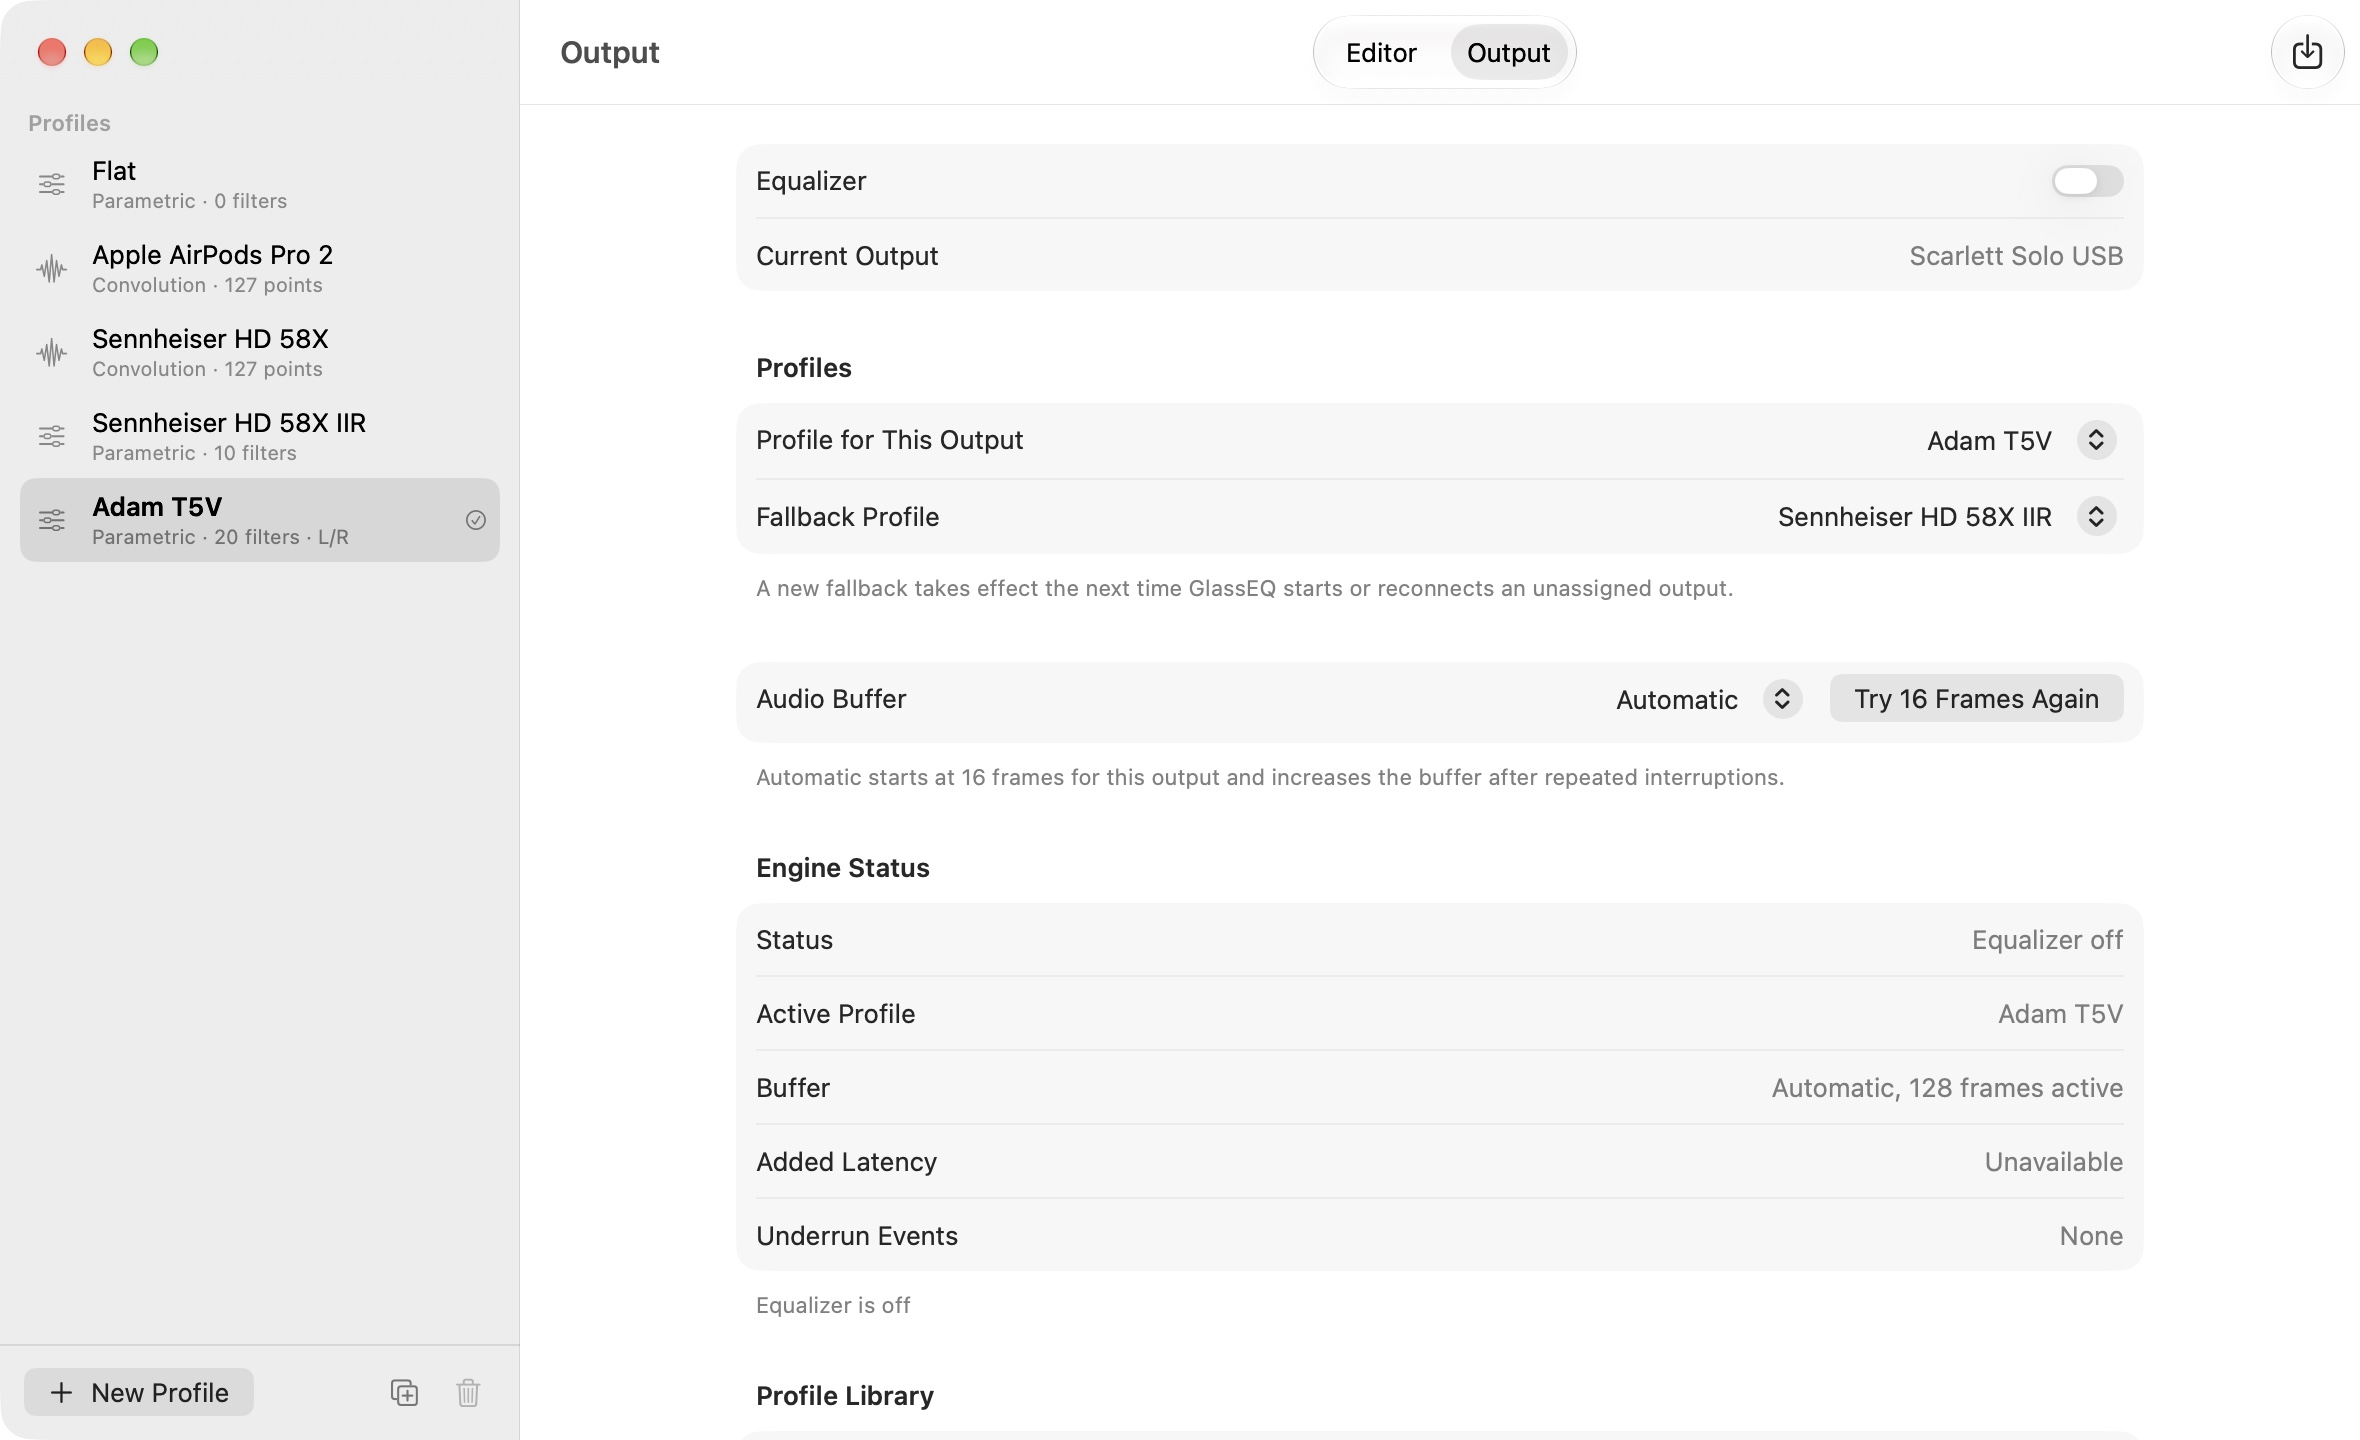
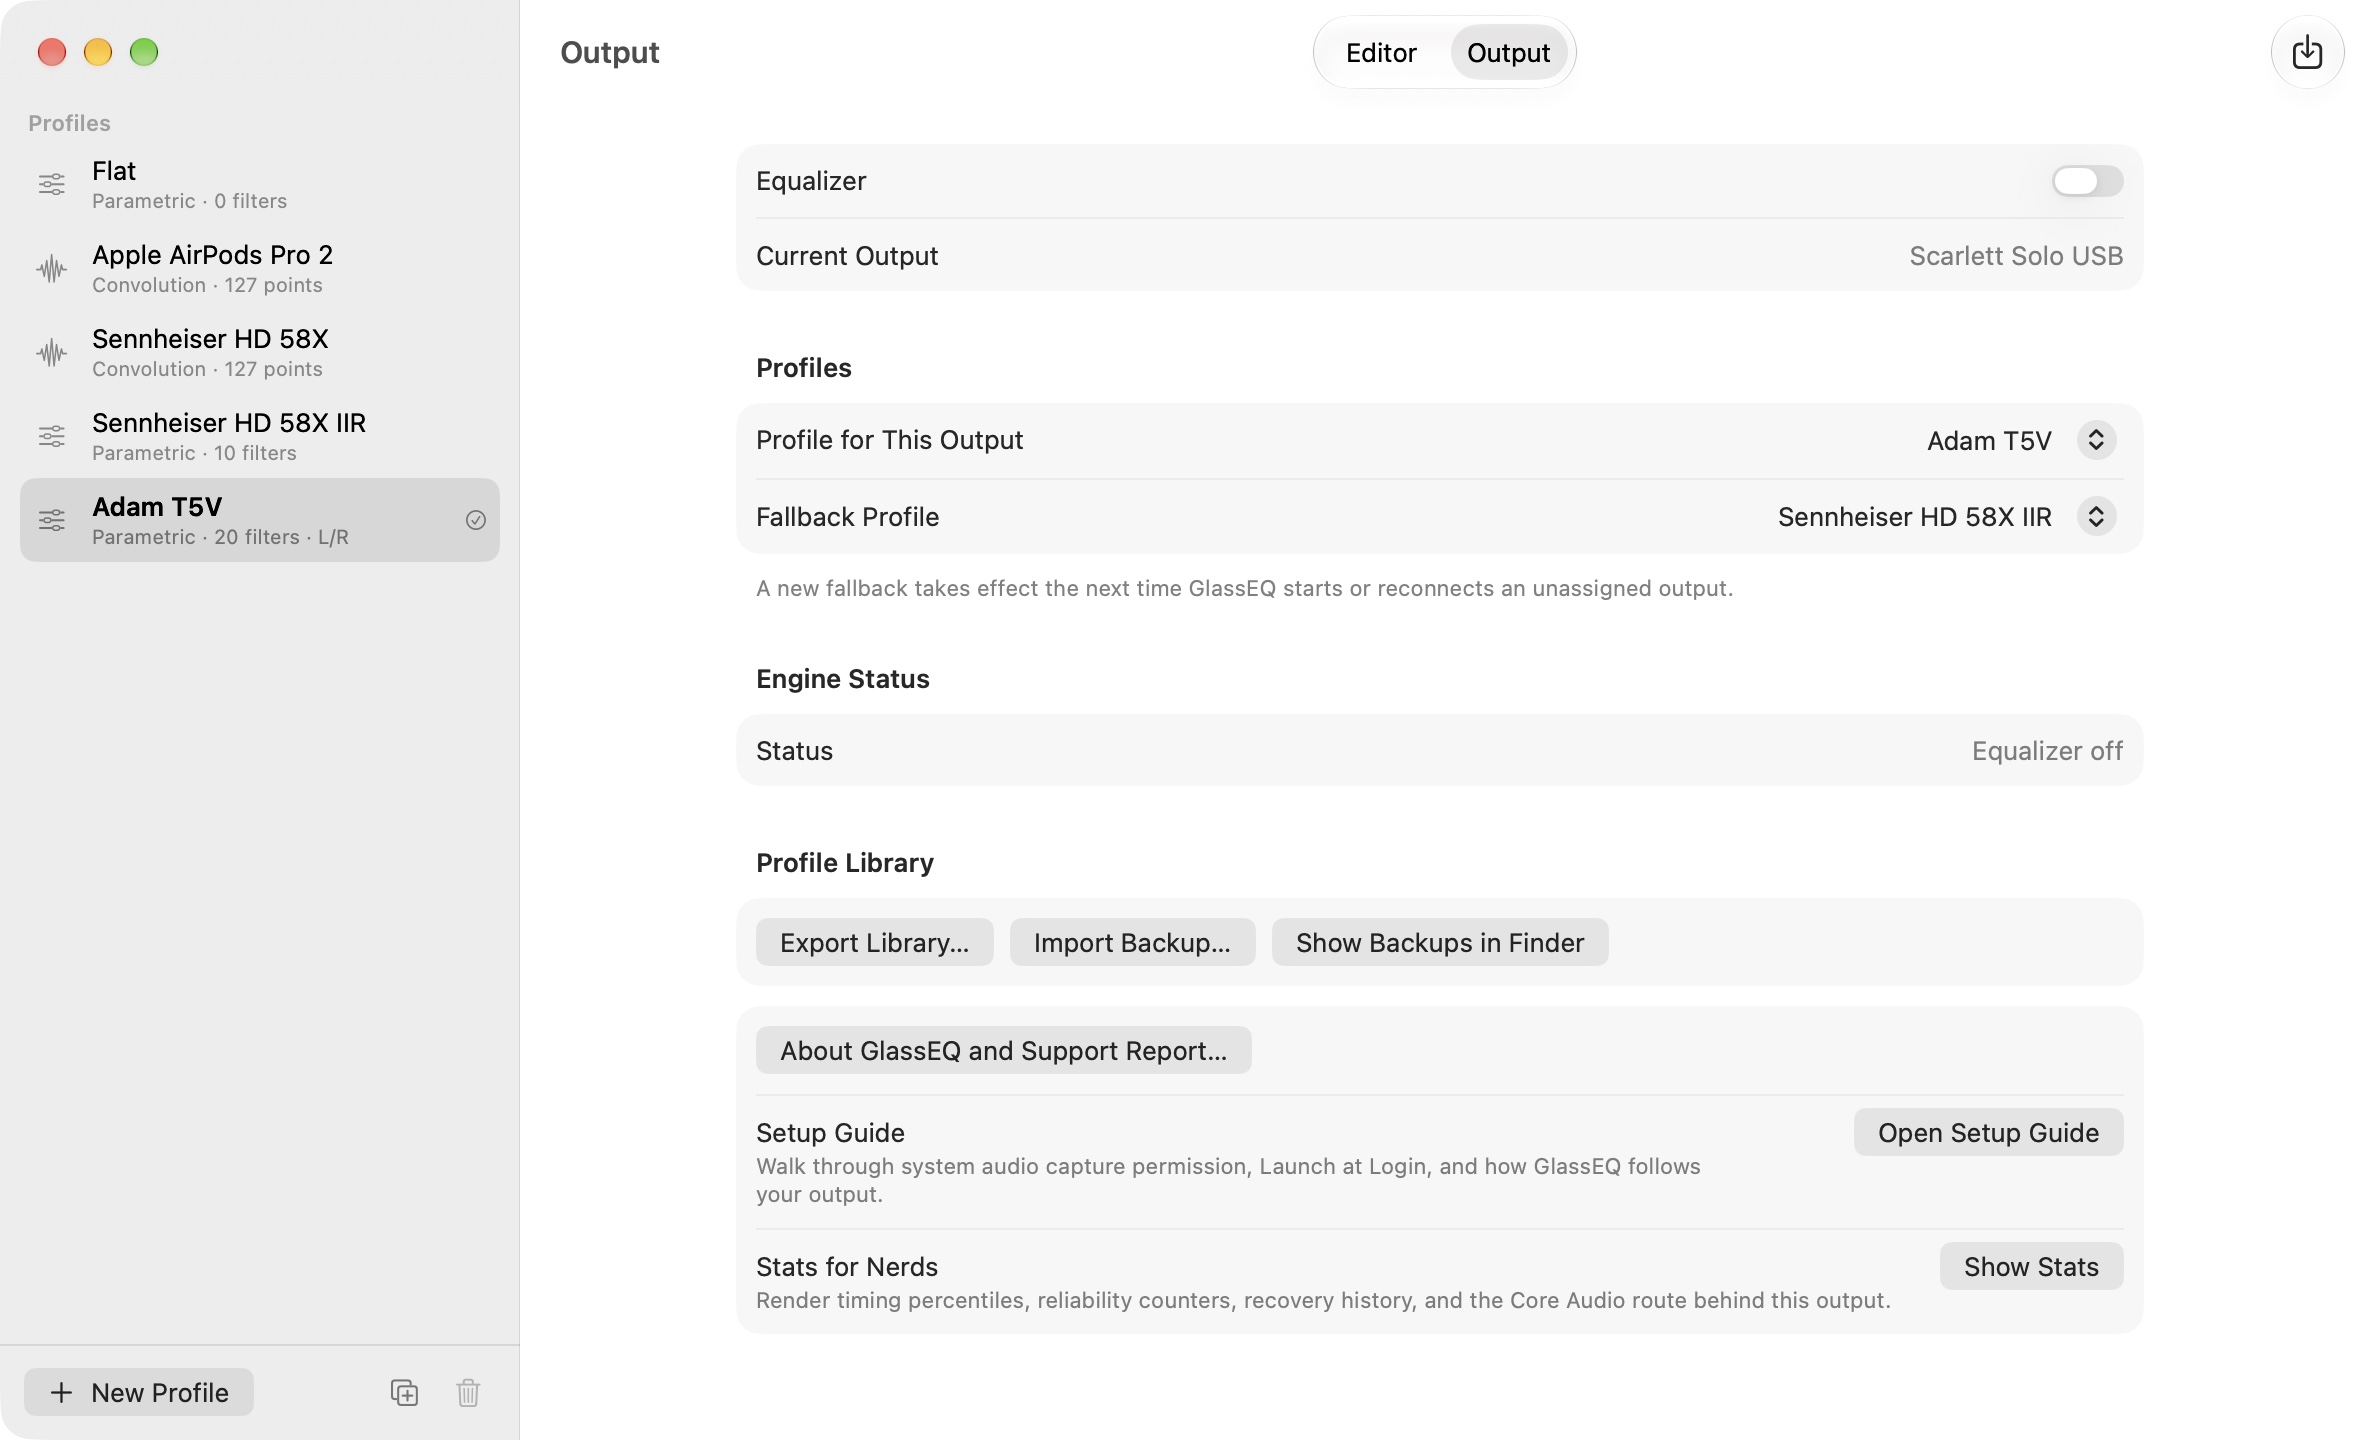
fix(settings): restore slider travel and keep playback recovery in reach

diff --git a/Sources/GlassEQSettingsUI/OutputTab.swift b/Sources/GlassEQSettingsUI/OutputTab.swift
@@ -30,7 +30,7 @@ struct OutputTab: View {
         Form {
             Section {
                 if snapshot.offersPlaybackHandback || snapshot.equalizer.needsRecoveryAction {
-                    recoveryActions
+                    PlaybackRecoveryActions(controller: controller)
                 } else if snapshot.equalizer != .unavailable {
                     Toggle(
                         localized("Equalizer"),
@@ -77,93 +77,100 @@ struct OutputTab: View {
             }
             .disabled(controller.isEditingLocked)
 
-            Section {
-                LabeledContent(localized("Audio Buffer")) {
-                    Picker(localized("Audio Buffer"), selection: $controller.aggregateBufferMode) {
-                        Text(localized("Automatic")).tag(SettingsAggregateBufferMode.automatic)
-                        Text(localized("16 frames")).tag(SettingsAggregateBufferMode.frames16)
-                        Text(localized("32 frames")).tag(SettingsAggregateBufferMode.frames32)
-                        Text(localized("64 frames")).tag(SettingsAggregateBufferMode.frames64)
-                        Text(localized("128 frames")).tag(SettingsAggregateBufferMode.frames128)
+            if snapshot.isRunning {
+                Section {
+                    LabeledContent(localized("Audio Buffer")) {
+                        Picker(localized("Audio Buffer"), selection: $controller.aggregateBufferMode) {
+                            Text(localized("Automatic")).tag(SettingsAggregateBufferMode.automatic)
+                            Text(localized("16 frames")).tag(SettingsAggregateBufferMode.frames16)
+                            Text(localized("32 frames")).tag(SettingsAggregateBufferMode.frames32)
+                            Text(localized("64 frames")).tag(SettingsAggregateBufferMode.frames64)
+                            Text(localized("128 frames")).tag(SettingsAggregateBufferMode.frames128)
+                        }
+                        .labelsHidden()
+
+                        if snapshot.aggregateBuffer.mode == .automatic,
+                            snapshot.aggregateBuffer.automaticFrameSize > snapshot.aggregateBuffer.defaultFrameSize
+                        {
+                            Button(localized("Try \(snapshot.aggregateBuffer.defaultFrameSize) Frames Again")) {
+                                controller.retryAutomaticAggregateBuffer()
+                            }
+                        } else if let fixedFrameSize = snapshot.aggregateBuffer.mode.fixedFrameSize,
+                            snapshot.currentOutputBufferFrameSize > fixedFrameSize
+                        {
+                            Button(localized("Try \(fixedFrameSize) Frames Again")) {
+                                controller.setAggregateBufferMode(snapshot.aggregateBuffer.mode)
+                            }
+                        }
                     }
-                    .labelsHidden()
+
                     .disabled(!snapshot.aggregateBuffer.isAvailable)
 
-                    if snapshot.aggregateBuffer.mode == .automatic,
-                        snapshot.aggregateBuffer.automaticFrameSize > snapshot.aggregateBuffer.defaultFrameSize
-                    {
-                        Button(localized("Try \(snapshot.aggregateBuffer.defaultFrameSize) Frames Again")) {
-                            controller.retryAutomaticAggregateBuffer()
-                        }
-                    } else if let fixedFrameSize = snapshot.aggregateBuffer.mode.fixedFrameSize,
-                        snapshot.currentOutputBufferFrameSize > fixedFrameSize
-                    {
-                        Button(localized("Try \(fixedFrameSize) Frames Again")) {
-                            controller.setAggregateBufferMode(snapshot.aggregateBuffer.mode)
-                        }
-                    }
-                }
-
-                if shouldShowMacOS27BluetoothBufferNotice(
-                    route: diagnostics.route,
-                    operatingSystemMajorVersion: ProcessInfo.processInfo.operatingSystemVersion.majorVersion
-                ) {
-                    VStack(alignment: .leading, spacing: 6) {
-                        Label(localized("macOS 27 Bluetooth audio"), systemImage: "info.circle")
-                            .fontWeight(.semibold)
-                        Text(
-                            localized(
-                                "macOS 27 may use a 256-frame buffer for Bluetooth audio even when a smaller size is selected. Retrying may not lower it."
-                            )
-                        )
-                        .foregroundStyle(.secondary)
-                    }
-                    .font(.caption)
-                    .fixedSize(horizontal: false, vertical: true)
-                    .accessibilityElement(children: .combine)
-                }
-
-                if snapshot.aggregateBuffer.defaultFrameSize > 16 {
-                    DisclosureGroup {
-                        VStack(alignment: .leading, spacing: 8) {
+                    if shouldShowMacOS27BluetoothBufferNotice(
+                        route: diagnostics.route,
+                        operatingSystemMajorVersion: ProcessInfo.processInfo.operatingSystemVersion.majorVersion
+                    ) {
+                        VStack(alignment: .leading, spacing: 6) {
+                            Label(localized("macOS 27 Bluetooth audio"), systemImage: "info.circle")
+                                .fontWeight(.semibold)
                             Text(
                                 localized(
-                                    "Changing Bluetooth volume from your Mac can briefly delay audio processing. A larger buffer helps absorb those delays."
-                                ))
-                            Text(localized("On AirPods Pro, adjusting volume using the stems avoided the issue."))
+                                    "macOS 27 may use a 256-frame buffer for Bluetooth audio even when a smaller size is selected. Retrying may not lower it."
+                                )
+                            )
+                            .foregroundStyle(.secondary)
                         }
                         .font(.caption)
-                        .foregroundStyle(.secondary)
                         .fixedSize(horizontal: false, vertical: true)
-                    } label: {
-                        Text(localized("Why a larger buffer?"))
+                        .accessibilityElement(children: .combine)
                     }
-                }
-            } footer: {
-                if snapshot.isRunning || snapshot.aggregateBuffer.isAvailable {
-                    Text(
-                        outputBufferExplanation(
-                            aggregateBuffer: snapshot.aggregateBuffer,
-                            currentFrameSize: snapshot.currentOutputBufferFrameSize
-                        ))
+
+                    if snapshot.aggregateBuffer.defaultFrameSize > 16 {
+                        DisclosureGroup {
+                            VStack(alignment: .leading, spacing: 8) {
+                                Text(
+                                    localized(
+                                        "Changing Bluetooth volume from your Mac can briefly delay audio processing. A larger buffer helps absorb those delays."
+                                    ))
+                                Text(localized("On AirPods Pro, adjusting volume using the stems avoided the issue."))
+                            }
+                            .font(.caption)
+                            .foregroundStyle(.secondary)
+                            .fixedSize(horizontal: false, vertical: true)
+                        } label: {
+                            Text(localized("Why a larger buffer?"))
+                        }
+                    }
+                } footer: {
+                    if snapshot.isRunning || snapshot.aggregateBuffer.isAvailable {
+                        Text(
+                            outputBufferExplanation(
+                                aggregateBuffer: snapshot.aggregateBuffer,
+                                currentFrameSize: snapshot.currentOutputBufferFrameSize
+                            ))
+                    }
                 }
             }
 
             Section {
                 LabeledContent(localized("Status"), value: statusSummary)
-                LabeledContent(localized("Active Profile"), value: snapshot.activeProfileName)
-                LabeledContent(localized("Buffer"), value: bufferSummary)
-                LabeledContent(localized("Added Latency"), value: outputAddedLatencyLabel(snapshot))
-                LabeledContent(
-                    localized("Underrun Events"),
-                    value: snapshot.metrics.playbackUnderrunEvents == 0
-                        ? localized("None")
-                        : localizedInteger(snapshot.metrics.playbackUnderrunEvents)
-                )
+                if snapshot.isRunning {
+                    LabeledContent(localized("Active Profile"), value: snapshot.activeProfileName)
+                    LabeledContent(localized("Buffer"), value: bufferSummary)
+                    LabeledContent(localized("Added Latency"), value: outputAddedLatencyLabel(snapshot))
+                    LabeledContent(
+                        localized("Underrun Events"),
+                        value: snapshot.metrics.playbackUnderrunEvents == 0
+                            ? localized("None")
+                            : localizedInteger(snapshot.metrics.playbackUnderrunEvents)
+                    )
+                }
             } header: {
                 Text(localized("Engine Status"))
             } footer: {
-                if !snapshot.offersPlaybackHandback && !snapshot.equalizer.needsRecoveryAction {
+                if snapshot.equalizer != .off && !snapshot.offersPlaybackHandback
+                    && !snapshot.equalizer.needsRecoveryAction
+                {
                     Text(snapshot.statusMessage)
                 }
             }
@@ -241,28 +248,6 @@ struct OutputTab: View {
         }
     }
 
-    private var recoveryActions: some View {
-        VStack(alignment: .leading, spacing: 8) {
-            Label(
-                snapshot.offersPlaybackHandback ? localized("Output is muted") : localized("Equalizer needs attention"),
-                systemImage: snapshot.offersPlaybackHandback ? "speaker.slash" : "exclamationmark.triangle"
-            )
-            .fontWeight(.semibold)
-            Text(snapshot.statusMessage)
-                .foregroundStyle(.secondary)
-            HStack {
-                if snapshot.offersPlaybackHandback {
-                    Button(localized("Play Without EQ")) { controller.playWithoutEQ() }
-                        .buttonStyle(.borderedProminent)
-                }
-                Button(localized("Retry Audio Engine")) { controller.retryAudioEngine() }
-                if snapshot.equalizer == .permissionDenied {
-                    Button(localized("Open Privacy Settings")) { controller.openPrivacySettings() }
-                }
-            }
-        }
-    }
-
     private var diagnostics: SettingsAudioDiagnosticsDTO {
         snapshot.metrics.diagnostics
     }
@@ -287,6 +272,34 @@ struct OutputTab: View {
             aggregateBuffer: snapshot.aggregateBuffer,
             currentFrameSize: snapshot.currentOutputBufferFrameSize
         )
+    }
+}
+
+struct PlaybackRecoveryActions: View {
+    var controller: SettingsController
+
+    var body: some View {
+        let snapshot = controller.snapshot
+        VStack(alignment: .leading, spacing: 8) {
+            Label(
+                snapshot.offersPlaybackHandback ? localized("Output is muted") : localized("Equalizer needs attention"),
+                systemImage: snapshot.offersPlaybackHandback ? "speaker.slash" : "exclamationmark.triangle"
+            )
+            .fontWeight(.semibold)
+            .foregroundStyle(.orange)
+            Text(snapshot.statusMessage)
+                .foregroundStyle(.secondary)
+            HStack {
+                Button(localized("Retry Audio Engine")) { controller.retryAudioEngine() }
+                if snapshot.equalizer == .permissionDenied {
+                    Button(localized("Open Privacy Settings")) { controller.openPrivacySettings() }
+                }
+                if snapshot.offersPlaybackHandback {
+                    Button(localized("Play Without EQ")) { controller.playWithoutEQ() }
+                        .buttonStyle(.borderedProminent)
+                }
+            }
+        }
     }
 }
 

diff --git a/Sources/GlassEQSettingsUI/ProfileDetail.swift b/Sources/GlassEQSettingsUI/ProfileDetail.swift
@@ -22,6 +22,13 @@ struct ProfileDetail: View {
         }
         .frame(minWidth: 0, maxWidth: .infinity)
         .safeAreaInset(edge: .top, spacing: 0) {
+            if controller.tab == .editor && controller.snapshot.offersPlaybackHandback {
+                PlaybackRecoveryActions(controller: controller)
+                    .frame(maxWidth: .infinity, alignment: .leading)
+                    .padding(.horizontal, 20)
+                    .padding(.vertical, 8)
+                    .background(.bar)
+            }
             if controller.isProfileStoreProtected {
                 ProfileStoreProtectionBanner(
                     protection: controller.snapshot.profileStoreProtection,

diff --git a/Sources/GlassEQSettingsUI/ValueControls.swift b/Sources/GlassEQSettingsUI/ValueControls.swift
@@ -30,6 +30,8 @@ struct SliderRow: View {
                 .fixedSize()
                 .frame(minWidth: 64, alignment: .leading)
             Slider(value: sliderValue, in: sliderRange)
+                .labelsHidden()
+                .frame(maxWidth: .infinity)
                 .accessibilityLabel(Text(title))
                 .accessibilityValue(Text(label))
                 .accessibilityHint(Text(localized("Adjusts \(title.lowercased())")))
